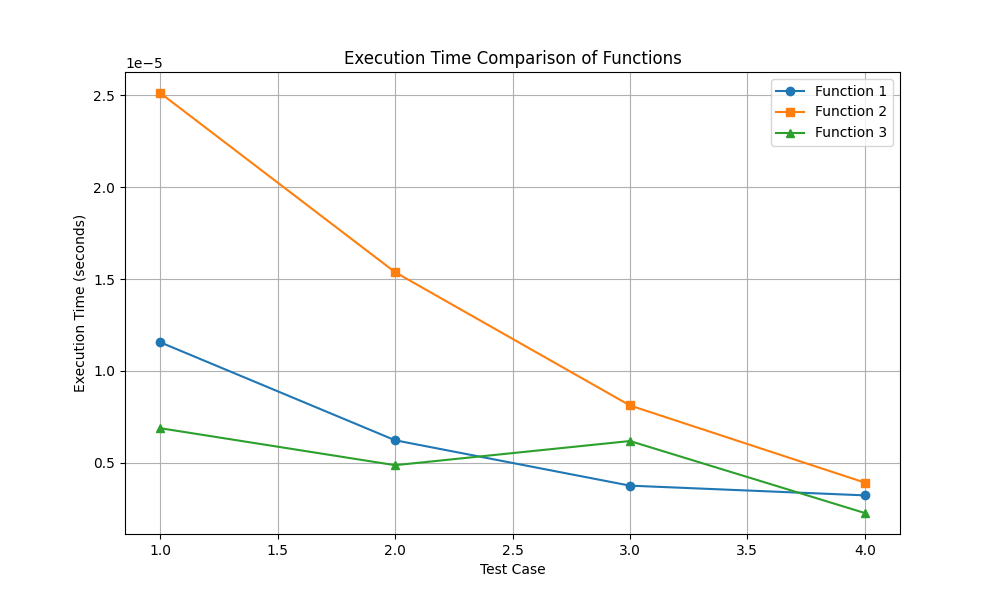
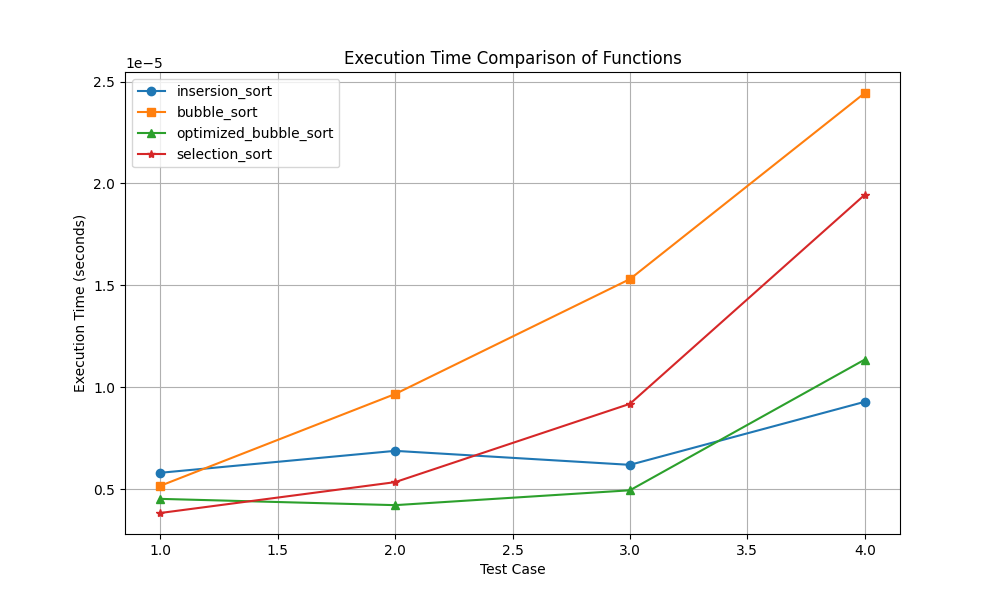
Update benchmark results and plotting to include all sorting algorithms

diff --git a/calculate_time.cpp b/calculate_time.cpp
@@ -74,7 +74,7 @@ int main()
     }
 
     std::ofstream resultsFile("results.csv");
-    resultsFile << "TestCase,Function1,Function2,Function3\n";
+    resultsFile << "TestCase,insersion_sort,bubble_sort,optimized_bubble_sort,selection_sort\n";
 
     for (size_t i = 0; i < testCases.size(); ++i)
     {
@@ -83,8 +83,8 @@ int main()
         double time3 = benchmark(optimized_bubble_sort, testCases[i]);
         double time4 = benchmark(selection_sort, testCases[i]);
 
-        resultsFile << i + 1 << "," << time1 << "," << time2 << "," << time3 << "\n";
-        std::cout << "Test Case " << i + 1 << ": Function1=" << time1 << "s, Function2=" << time2 << "s, Function3=" << time3 << "s\n";
+        resultsFile << i + 1 << "," << time1 << "," << time2 << "," << time3 << "," << time4 << "\n";
+        std::cout << "Test Case " << i + 1 << ": insersion_sort=" << time1 << "s, bubble_sort=" << time2 << "s, optimized_bubble_sort=" << time3 << "s, selection_sort=" << time4 << "s\n";
     }
 
     resultsFile.close();

diff --git a/graphing_python/plot_graph.py b/graphing_python/plot_graph.py
@@ -6,10 +6,12 @@ df = pd.read_csv("./../results.csv")
 
 # Plot execution times
 plt.figure(figsize=(10, 6))
-plt.plot(df["TestCase"], df["Function1"], marker='o', label="Function 1")
-plt.plot(df["TestCase"], df["Function2"], marker='s', label="Function 2")
-plt.plot(df["TestCase"], df["Function3"], marker='^', label="Function 3")
+plt.plot(df["TestCase"], df["insersion_sort"], marker='o', label="insersion_sort")
+plt.plot(df["TestCase"], df["bubble_sort"], marker='s', label="bubble_sort")
+plt.plot(df["TestCase"], df["optimized_bubble_sort"], marker='^', label="optimized_bubble_sort")
+plt.plot(df["TestCase"], df["selection_sort"], marker='*', label="selection_sort")
 
+# Add labels and title
 plt.xlabel("Test Case")
 plt.ylabel("Execution Time (seconds)")
 plt.title("Execution Time Comparison of Functions")
